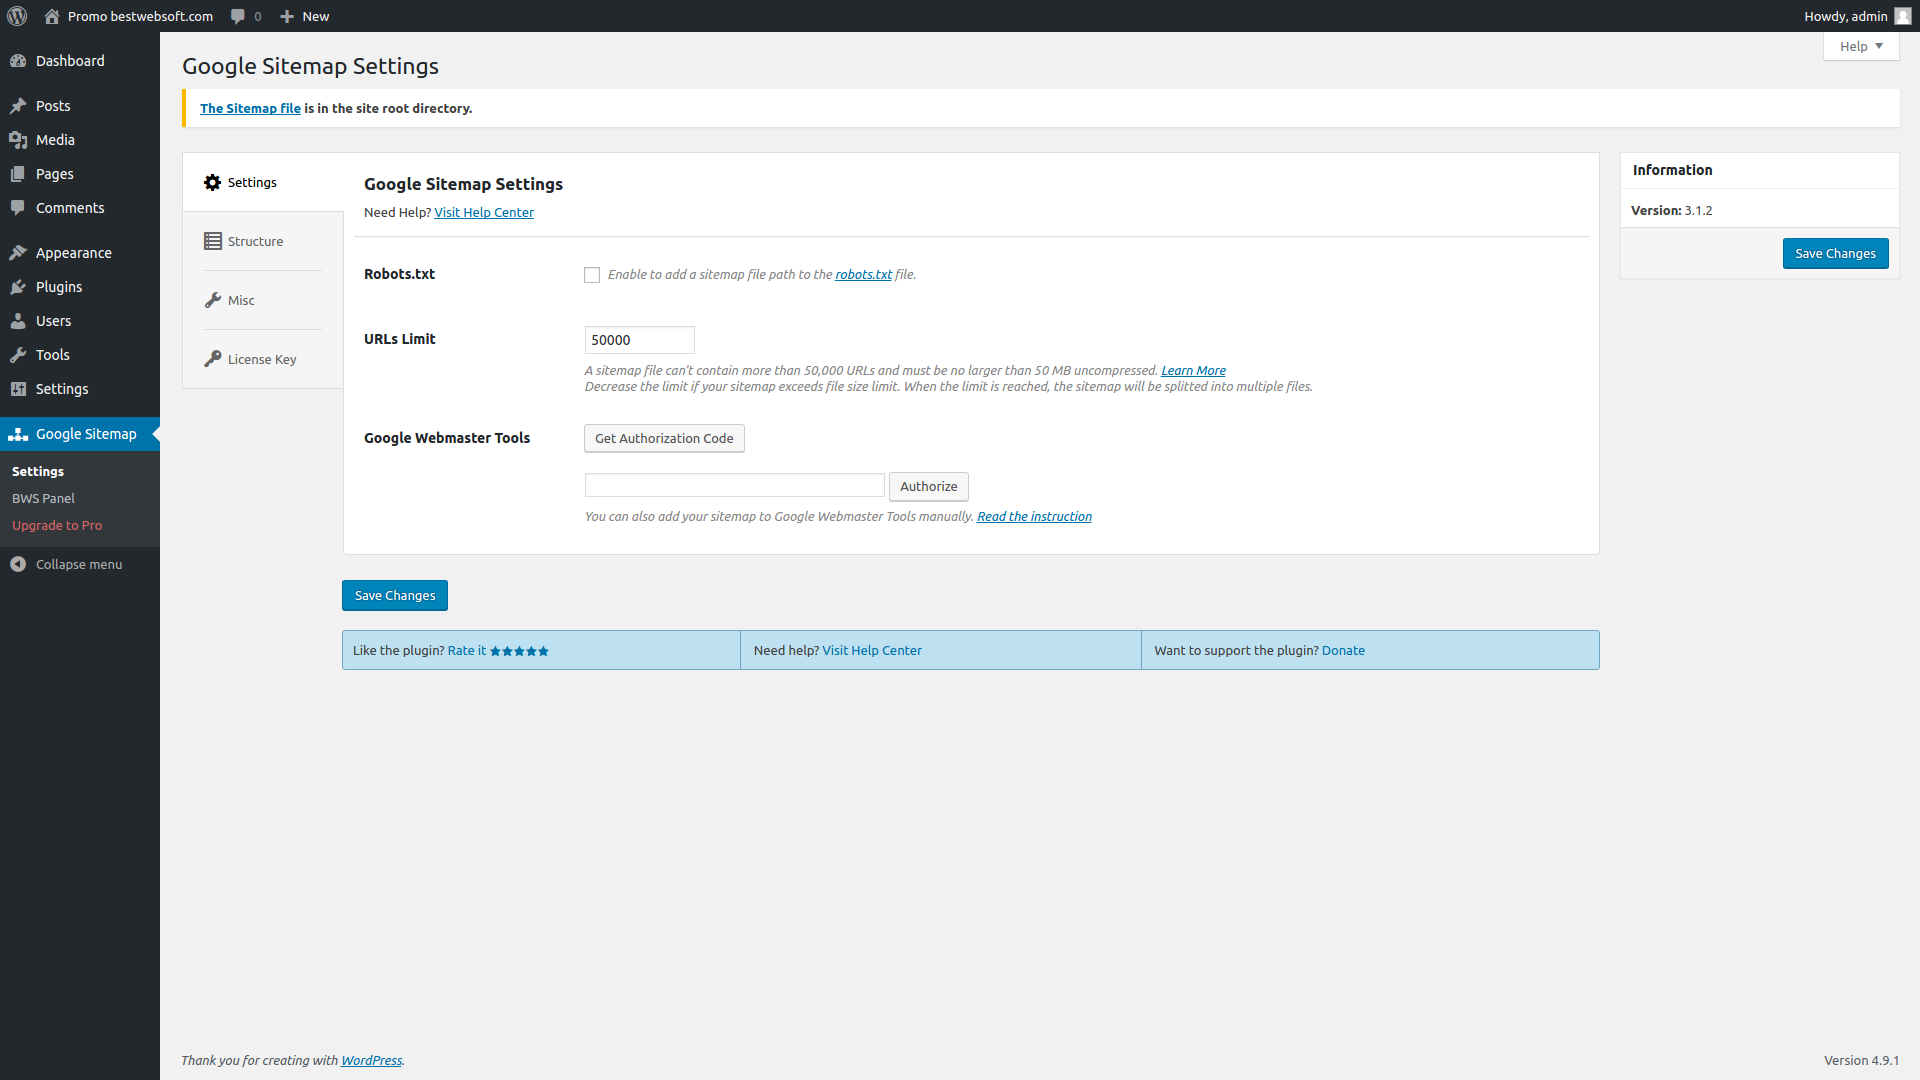
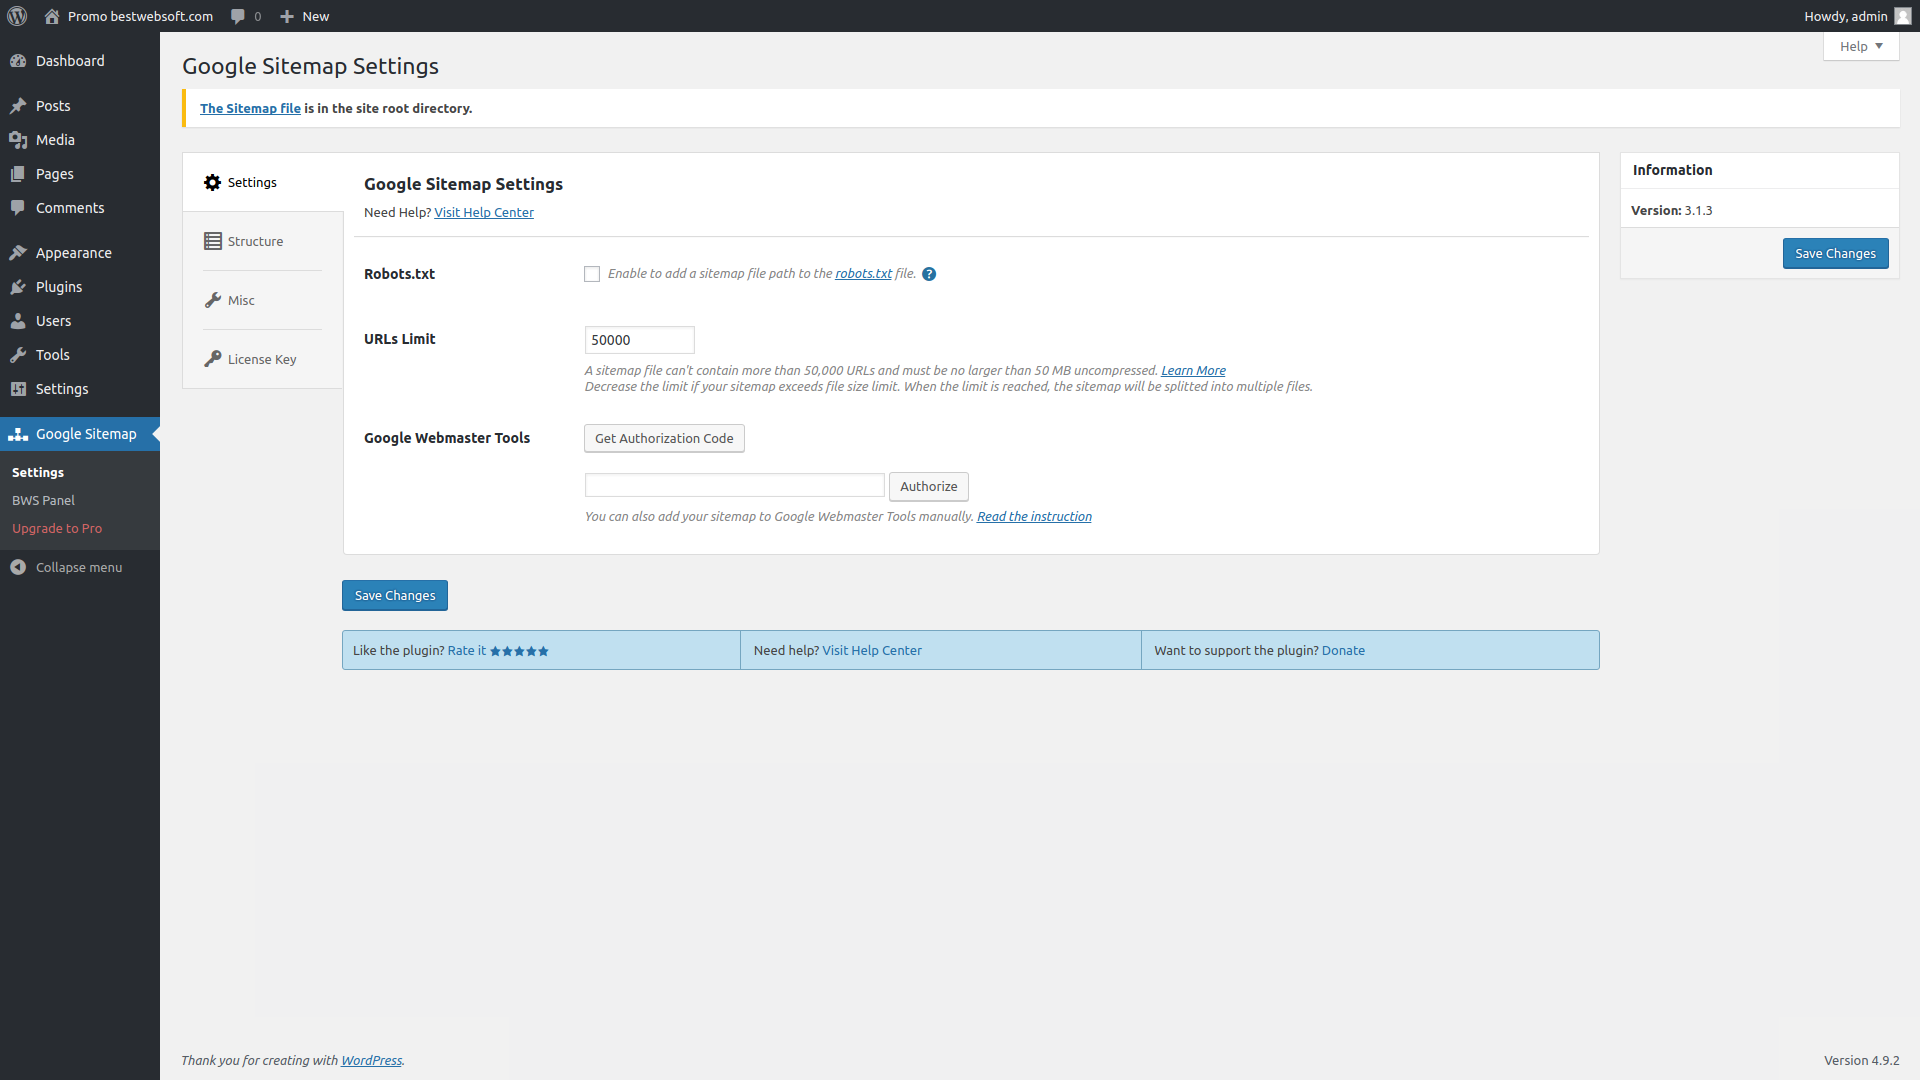
v3.1.3

diff --git a/google-sitemap-plugin.php b/google-sitemap-plugin.php
@@ -6,7 +6,7 @@ Description: Generate and add XML sitemap to WordPress website. Help search engi
 Author: BestWebSoft
 Text Domain: google-sitemap-plugin
 Domain Path: /languages
-Version: 3.1.2
+Version: 3.1.3
 Author URI: https://bestwebsoft.com/
 License: GPLv2 or later
 */
@@ -194,8 +194,6 @@ if ( ! function_exists( 'gglstmp_register_settings' ) ) {
 			$gglstmp_options = array_merge( $options_default, $gglstmp_options );
 			/**
 			* Register uninstall hook
-			* @deprecated since 3.1.0
-			* @todo remove after 28.01.2018
 			*/
 			if ( ! isset( $gglstmp_options['plugin_option_version'] ) || version_compare( str_replace( 'pro-', '', $gglstmp_options['plugin_option_version'] ), '3.1.0', '<' ) ) {
 				unset( $gglstmp_options['sitemap'] );
@@ -205,7 +203,7 @@ if ( ! function_exists( 'gglstmp_register_settings' ) ) {
 					gglstmp_clean_robots();
 				}
 			}
-			/* end @todo */
+
 			$gglstmp_options['plugin_option_version'] = $gglstmp_plugin_info["Version"];
 			/* show pro features */
 			$gglstmp_options['hide_premium_options'] = array();
@@ -324,6 +322,8 @@ if ( ! function_exists( 'gglstmp_prepare_sitemap' ) ) {
 			}
 		}
 
+		$post_status = apply_filters('gglstmp_post_status', array( 'publish' ) );
+
 		$excluded_posts = $wpdb->get_col( "
 			SELECT
 				`ID`
@@ -340,7 +340,7 @@ if ( ! function_exists( 'gglstmp_prepare_sitemap' ) ) {
 						`ID`
 					FROM $wpdb->posts
 					WHERE
-						`post_status` = 'publish'
+						`post_status` IN (" . implode( ',', $post_status ) . ")
 						AND `ID` NOT IN (" . implode( ',', $excluded_posts ) . ")
 						AND `post_type` IN ('forum', 'topic', 'reply')
 						AND `post_parent` IN (" . implode( ',', $excluded_posts ) . ");"
@@ -372,6 +372,8 @@ if ( ! function_exists( 'gglstmp_prepare_sitemap' ) ) {
 		$frontpage_is_added = false;
 
 		if ( ! empty( $post_types ) ) {
+			$post_status_string = "p.`post_status` IN ('" . implode( "','", (array)$post_status ) . "')";
+
 			$excluded_posts_string = $post_types_string = '';
 
 			$post_types_string = "AND p.`post_type` IN ('" . implode( "','", (array)$post_types ) . "')";
@@ -401,7 +403,7 @@ if ( ! function_exists( 'gglstmp_prepare_sitemap' ) ) {
 				LEFT JOIN {$wpdb->terms} t
 					ON t.`term_id` = tt.`term_id`
 				WHERE
-					p.`post_status` = 'publish'
+					{$post_status_string}
 					{$post_types_string}
 					{$excluded_posts_string}
 				GROUP BY `ID`
@@ -1205,7 +1207,7 @@ if ( ! function_exists( 'gglstmp_check_post_status' ) ) {
 
 /* Updating the sitemap after a post or page is trashed or published */
 if ( ! function_exists( 'gglstmp_update_sitemap' ) ) {
-	function gglstmp_update_sitemap( $post_id, $post ) {
+	function gglstmp_update_sitemap( $post_id, $post = null ) {
 		if ( ! wp_is_post_revision( $post_id ) && ( ! isset( $post ) || ( 'nav_menu' != $post->post_type && 'nav_menu_item' != $post->post_type ) ) ) {
 			global $gglstmp_update_sitemap;
 			if ( true === $gglstmp_update_sitemap ) {
